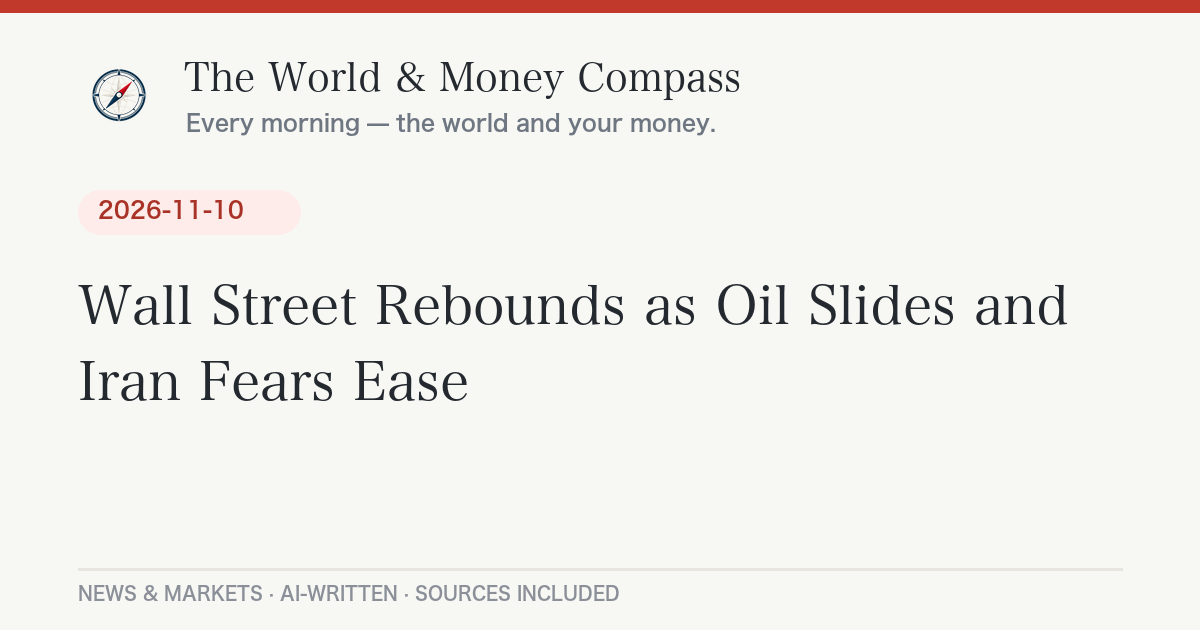
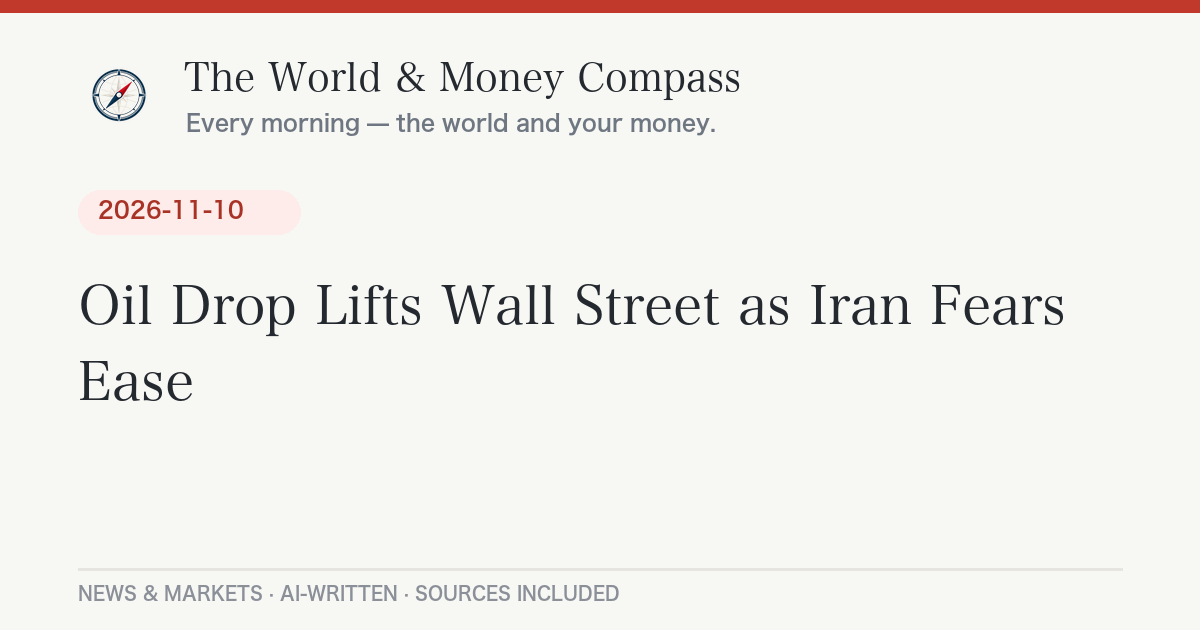
Daily briefing 2026-11-12

Changed region(s): [[0.0617, 0.4524, 0.8942, 0.5429], [0.0617, 0.573, 0.4008, 0.6333]]

diff --git a/_posts/2026-11-12-daily-briefing.md b/_posts/2026-11-12-daily-briefing.md
@@ -1,0 +1,92 @@
+---
+layout: post
+lang: ja
+title: "ドル円が159円台に、米利上げ観測強まるもAI株高で日経6万1千円台｜11月12日のニュースとお金"
+date: 2026-11-12 07:45:00 +0900
+categories: [ニュース, 経済]
+headline: "ドル円が159円台に、米利上げ観測強まるもAI株高で日経6万1千円台"
+permalink: /2026/11/12/daily-briefing/
+---
+
+## 今日のポイント
+
+アメリカの物価が思ったより強く、12月に[アメリカの中央銀行（FRB）が利上げする見方が一段と強まりました](https://www.cnbc.com/2026/11/10/market-spooked-because-now-the-fed-may-need-a-supersized-hike-in-december.html)。その影響でドルが買われ、円は1ドル=159円台まで下がっています。一方で株式市場はAI関連株の買いで上昇し、「金利上昇」と「株高」が同時に進む、ちぐはぐな一日でした。
+
+## 今日の羅針盤（Compass Insight）
+
+きょうの流れを一言でいえば「金利は上がるのに、株はAIで押し上げられた」です。アメリカで利上げが続くと、日米の金利差から円安が進みやすくなります。円安は輸入する食料品・ガソリン・電気代の負担増につながるため、家計にはじわじわ効いてきます。一方、円安は輸出企業の業績には追い風で、日本株を支える面もあります。
+
+短期では、ドル円が節目の160円に近づいたときの政府・日銀の動きと、今週予定される米国の追加の物価指標に注目です。中長期では、日銀がどのペースで利上げを進めるかが大切です。米国ほど速くは進まないとの見方が出ており、日米の金利差が続けば円安圧力も残る可能性があります。住宅ローンの変動金利を使っている方は、日銀の動きも気にしておきたいところです。株式では、AI投資への期待が戻った一方で、金利上昇は成長株の重しになりえます。上昇が続くかどうかは「AIの稼ぐ力」と「金利」の綱引き次第、という見方もできます。
+
+## 今日のニュース
+
+### 日本
+- 高市首相が力を入れる、食料品の消費税を減らす法案が[11日、参議院本会議で審議入りしました](https://www.nippon.com/ja/articles/-/57259)。財源や給付の詳細はまだ示されておらず、野党からは「制度の骨格が固まっていない」との批判も出ています（[東京新聞](https://www.tokyo-np.co.jp/article/527497)）。
+- 与党は参院で過半数に届かない状況で、会期末までの成立を目指しています（[日刊スポーツ／Yahoo!ニュース](https://news.yahoo.co.jp/articles/7503749c304c888e9a12b5167bbfafacac5d6794)）。
+
+### 世界
+- アメリカとイランの戦争をめぐり、仲介役のカタール首相が9日にトランプ大統領と会談しました。ホルムズ海峡の再開などを含む案が取り沙汰されていますが、[合意は発表されていません](https://fortune.com/2026/11/11/qatar-signals-progress-on-iran-deal-but-gulf-fears-persist)。
+- 米中は貿易休戦を延長しています。[中国は米国への追加関税24%の停止をさらに2か月延ばしました](https://www.bloomberg.com/news/articles/2026-11-09/china-extends-pause-on-24-us-tariffs-to-january-keeps-10-rate)。
+
+### アメリカ
+- 10月の消費者物価（CPI）が予想を上回り、[12月の追加利上げを織り込む動きが広がりました](https://www.cnbc.com/2026/11/10/market-spooked-because-now-the-fed-may-need-a-supersized-hike-in-december.html)。
+- 11日の米株は[AI・半導体株が上昇をけん引](https://finance.yahoo.com/markets/live/stock-market-today-wednesday-november-11-dow-sp-500-nasdaq-nvidia-treasurys-veterans-day-140638547.html)し、ナスダックが大きく上昇しました。
+
+### ヨーロッパ
+- ドイツのメルツ首相が、ウクライナ支援の資金手当てが決まらなければEUの次期予算も認めない、と主張しています。スロバキア、チェコ、ハンガリー、ブルガリアの首脳が[反発しています](https://www.euronews.com/2026/11/10/eu-budget-battle-erupts-as-four-countries-defy-merz-over-ukraine-aid)。
+- 米国が仲介するウクライナとロシアの協議（アブダビ）は、捕虜交換以外に目立った成果がなかったと伝えられています（[Euronews](https://www.euronews.com/2026/11/09/no-deal-on-ukraine-aid-then-no-deal-on-eu-budget-merz-says)）。
+
+## 経済とお金の動き
+
+### 世界の経済と相場
+
+| 指標 | 水準 | 前日比など |
+|---|---|---|
+| 日経平均株価（11日終値） | [61,248.59円](https://news.yahoo.co.jp/articles/3514f6eb2b4c88c0bf88351229494635504bc300) | <span class="chg-up">+789.01円</span> |
+| S&P500（11日終値） | [約7,619](https://cappnotes.substack.com/p/closing-look-wednesday-november-11) | <span class="chg-up">約+1.3%</span> |
+| ナスダック総合（11日終値） | [約25,466](https://www.cnbc.com/2026/11/10/stock-market-today-live-updates.html) | <span class="chg-up">約+1.6%</span> |
+| ダウ平均（11日終値） | [約52,500ドル](https://www.investing.com/news/stock-market-news/us-stocks-higher-at-close-of-trade-dow-jones-industrial-average-up-048-5019892) | <span class="chg-up">約+0.5%</span> |
+| ドル円 | [159.23円（ECB基準日11月11日）](https://api.frankfurter.app/latest?from=USD&to=JPY) | 円安方向。NY時間には[159円台半ば](https://fx.minkabu.jp/news/384166)まで |
+| WTI原油 | 86ドル台（11日の取引中） | 10日の[終値86.04ドル](https://leprivatebanker.com/2026/11/11/oil-rebounds-from-two-month-lows-as-hormuz-shipping-attacks-cut-across-iran-truce-hopes/)から小幅反発 |
+
+*※ダウとナスダックは媒体によって数字に差があります。上記は代表的な報道値です。*
+
+原油は、イラン情勢の和平期待で[ブレントが一時90ドルを割り込み](https://cnbc.com/2026/11/10/oil-prices-trump-iran.html)ましたが、11日はホルムズ海峡でのタンカー被害の報道で反発しました。和平が進めば下落、緊張が高まれば上昇、という振れやすい状態です。
+
+### アメリカの経済
+10月のCPIは前月比0.4%上昇と、市場予想の0.3%を上回りました。FRBのウォラー理事が12月の利上げを支持する発言をしており、市場では25ベーシスポイント（0.25%）の利上げが有力視されています。一部には、より大きな利上げの可能性を指摘する声もあります（[Benzinga](https://www.benzinga.com/markets/macro-economic-events/26/11/63125711/fed-falling-behind-inflation-bank-of-america-half-point-hike-december)）。長期金利（米10年債）は5%に迫る水準まで上昇しました。
+
+### 日本の経済
+日経平均は[AI投資への警戒感が和らいだことで](https://ryukyushimpo.jp/kyodo/entry-5597283.html)ハイテク株が買われ、続伸しました。為替は[円安が進行](https://www.oanda.jp/lab-education/market_news/report_usdjpy_20261111/)しており、160円付近では為替介入への警戒感も意識されています。
+
+## 今日の注目銘柄・セクター
+
+- **AI関連・半導体株**：AI投資の継続への期待が戻り、買いが広がりました。[CoreWeaveの見通しや、AI企業の資金調達への関心](https://finance.yahoo.com/markets/live/stock-market-today-wednesday-november-11-dow-sp-500-nasdaq-nvidia-treasurys-veterans-day-140638547.html)が材料と報じられています。
+- **エネルギー（石油関連）**：イラン情勢で原油が上下に振れ、関連株も値動きが大きくなりやすい状況です。
+- **日本の輸出関連**：円安は海外で稼ぐ企業に追い風になりやすい一方、輸入コスト増は内需企業の重荷になります。
+
+*※特定銘柄の売買を推奨するものではありません。投資判断はご自身の責任で。*
+
+## まとめ：注目の3つ
+
+1. **米利上げ観測と円安**：ドル円は159円台。160円付近の動きに注意。
+2. **AI株の戻りと金利のせめぎ合い**：株高がどこまで続くかは金利次第。
+3. **中東情勢と原油**：和平か緊張かで原油が大きく動く。家計のガソリン代・電気代にも影響。
+
+---
+<div class="post-sources" markdown="1">
+
+**出典：**
+- [CNBC：12月に大幅利上げの可能性で市場が動揺](https://www.cnbc.com/2026/11/10/market-spooked-because-now-the-fed-may-need-a-supersized-hike-in-december.html)
+- [Yahoo Finance：11月11日の米株式市場](https://finance.yahoo.com/markets/live/stock-market-today-wednesday-november-11-dow-sp-500-nasdaq-nvidia-treasurys-veterans-day-140638547.html)
+- [共同通信（Yahoo!ニュース）：東証終値789円高](https://news.yahoo.co.jp/articles/3514f6eb2b4c88c0bf88351229494635504bc300)
+- [OANDA：ドル円見通し（2026年11月11日）](https://www.oanda.jp/lab-education/market_news/report_usdjpy_20261111/)
+- [Fortune：カタールの米イラン仲介](https://fortune.com/2026/11/11/qatar-signals-progress-on-iran-deal-but-gulf-fears-persist)
+- [Euronews：EU予算とウクライナ支援をめぐる対立](https://www.euronews.com/2026/11/10/eu-budget-battle-erupts-as-four-countries-defy-merz-over-ukraine-aid)
+- [Bloomberg：中国が対米関税24%の停止を延長](https://www.bloomberg.com/news/articles/2026-11-09/china-extends-pause-on-24-us-tariffs-to-january-keeps-10-rate)
+- [nippon.com：消費減税法案、参院審議入り](https://www.nippon.com/ja/articles/-/57259)
+- 市場データ: [frankfurter API](https://api.frankfurter.app/) ／ Yahoo Finance ほか
+
+*本記事は公開情報をもとに作成しています。*
+
+</div>

diff --git a/_posts/2026-11-12-daily-briefing-en.md b/_posts/2026-11-12-daily-briefing-en.md
@@ -1,0 +1,48 @@
+---
+layout: post
+lang: en
+title: "Hot CPI Lifts Fed Hike Bets, Yen Hits 159 as AI Stocks Rally — November 12, 2026"
+date: 2026-11-12 07:45:00 +0900
+headline: "Hot CPI Lifts Fed Hike Bets, Yen Hits 159 as AI Stocks Rally"
+permalink: /2026/11/12/daily-briefing/
+---
+
+## Top U.S. Stories
+
+- A hotter-than-expected October CPI pushed markets to price in a [December Fed rate hike](https://www.cnbc.com/2026/11/10/market-spooked-because-now-the-fed-may-need-a-supersized-hike-in-december.html); the 10-year Treasury yield rose to near 5%.
+  *Why it matters:* Higher-for-longer rates raise borrowing costs for mortgages and corporate debt, and strengthen the dollar against the yen.
+- Wall Street [closed higher on Wednesday](https://finance.yahoo.com/markets/live/stock-market-today-wednesday-november-11-dow-sp-500-nasdaq-nvidia-treasurys-veterans-day-140638547.html), led by AI and chip stocks, with the Nasdaq up about 1.6%.
+  *Why it matters:* The rally shows investors still prize AI growth even as rate-hike fears build, so the market's next move hinges on earnings versus yields.
+- Qatar's prime minister met President Trump on Monday about a possible Iran deal to reopen the Strait of Hormuz; [no agreement has been announced](https://fortune.com/2026/11/11/qatar-signals-progress-on-iran-deal-but-gulf-fears-persist).
+  *Why it matters:* The outcome swings oil prices, and with them gasoline and inflation.
+- China [extended its pause on an extra 24% tariff on U.S. goods](https://www.bloomberg.com/news/articles/2026-11-09/china-extends-pause-on-24-us-tariffs-to-january-keeps-10-rate) by two months, keeping the trade truce alive into January.
+
+## Compass Insight
+
+Today's tape is a tug-of-war: rising rate expectations on one side, AI optimism on the other. Hot inflation and a likely December hike push yields up and lift the dollar, which is why the yen slid to about 159 per dollar. Yet tech buyers returned, suggesting investors are betting AI earnings can outrun higher funding costs. In the short run, watch the next U.S. price data and whether the dollar-yen pair nears 160, where intervention talk usually grows louder. Over the medium term, the question is whether the Fed's pace forces a harder landing for growth stocks. Oil adds a second wild card: any Iran breakthrough could ease energy costs, while shipping attacks do the opposite.
+
+## Markets
+
+- Nikkei 225 closed at [61,248.59](https://news.yahoo.co.jp/articles/3514f6eb2b4c88c0bf88351229494635504bc300), up 789.01 points.
+- S&P 500 finished near [7,619](https://cappnotes.substack.com/p/closing-look-wednesday-november-11), up roughly 1.3%; the Nasdaq rose about 1.6% to near [25,466](https://www.cnbc.com/2026/11/10/stock-market-today-live-updates.html).
+- USD/JPY was [159.23 on the ECB reference rate for Nov. 11](https://api.frankfurter.app/latest?from=USD&to=JPY).
+- WTI was in the mid-$80s intraday, after settling at [$86.04 on Tuesday](https://leprivatebanker.com/2026/11/11/oil-rebounds-from-two-month-lows-as-hormuz-shipping-attacks-cut-across-iran-truce-hopes/).
+
+## Stocks in Focus
+
+- **AI and semiconductor stocks:** Led the rebound as [investors regained confidence in sustained AI spending](https://finance.yahoo.com/markets/live/stock-market-today-wednesday-november-11-dow-sp-500-nasdaq-nvidia-treasurys-veterans-day-140638547.html).
+- **Energy:** Oil-linked shares are swinging with Iran headlines.
+
+<div class="post-sources" markdown="1">
+
+**Sources:**
+- [CNBC: Market spooked as Fed may need a supersized December hike](https://www.cnbc.com/2026/11/10/market-spooked-because-now-the-fed-may-need-a-supersized-hike-in-december.html)
+- [Yahoo Finance: Stock market today, Nov. 11](https://finance.yahoo.com/markets/live/stock-market-today-wednesday-november-11-dow-sp-500-nasdaq-nvidia-treasurys-veterans-day-140638547.html)
+- [Fortune: Qatar signals progress on Iran deal](https://fortune.com/2026/11/11/qatar-signals-progress-on-iran-deal-but-gulf-fears-persist)
+- [Bloomberg: China extends pause on 24% U.S. tariffs](https://www.bloomberg.com/news/articles/2026-11-09/china-extends-pause-on-24-us-tariffs-to-january-keeps-10-rate)
+- [CNBC: Nasdaq gains as AI trade revives](https://www.cnbc.com/2026/11/10/stock-market-today-live-updates.html)
+- Market data: [frankfurter API](https://api.frankfurter.app/)
+
+</div>
+
+*Auto-generated and AI-written. Not investment advice.*
